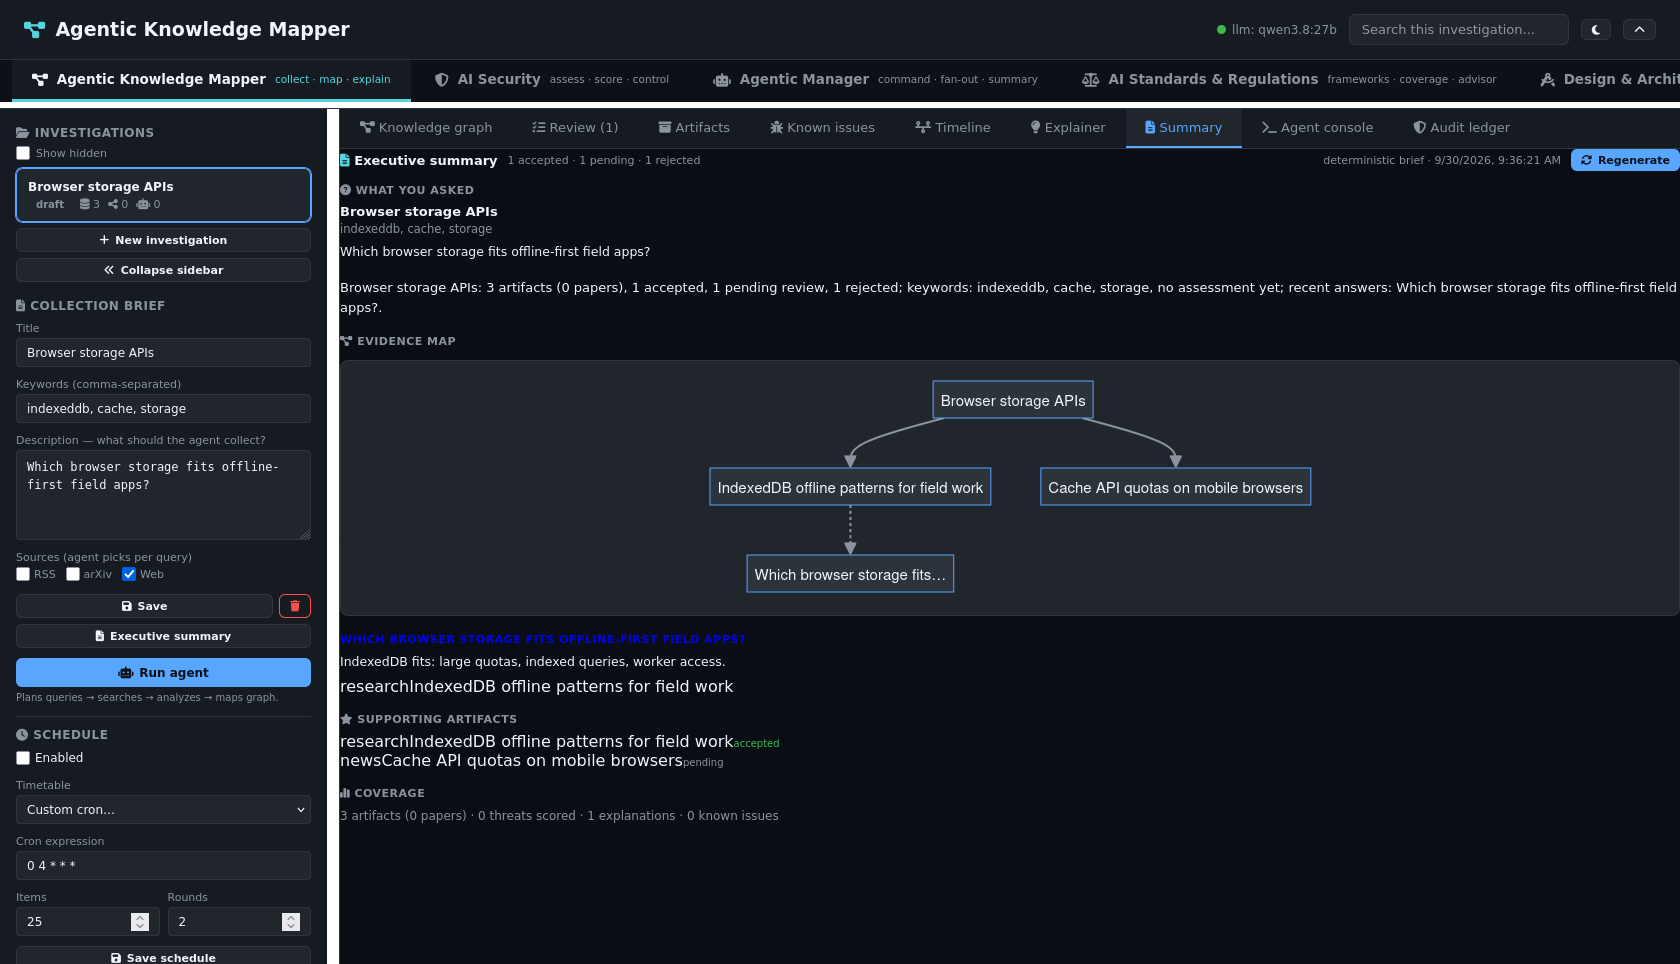
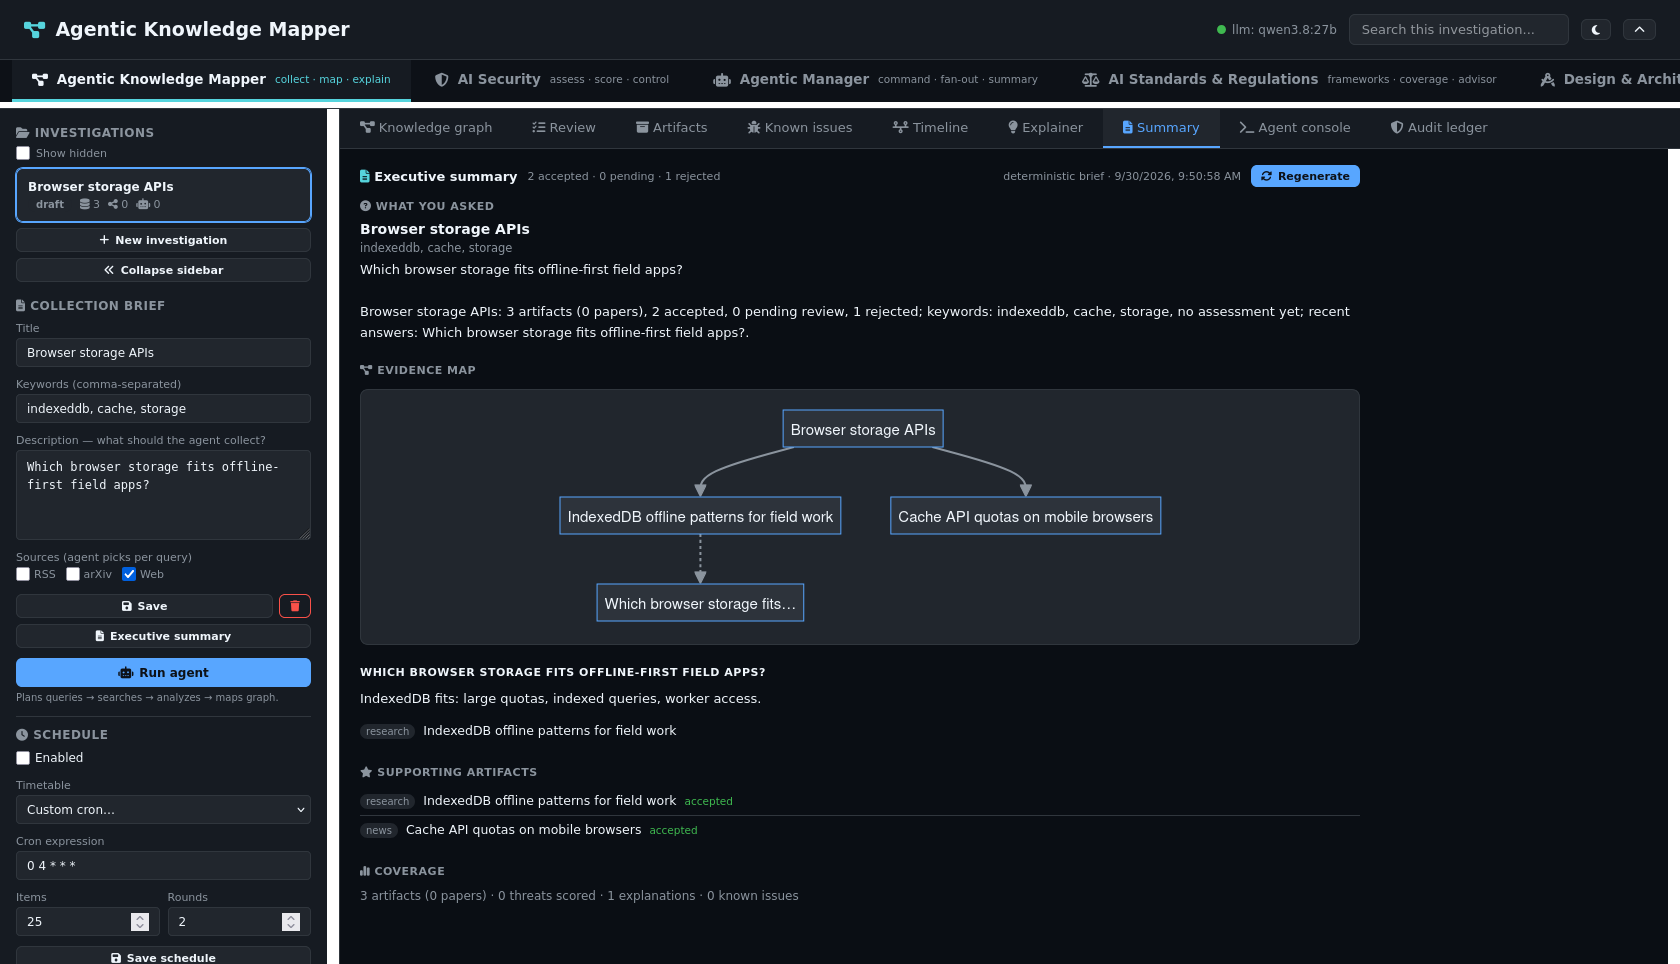
Fix Summary sub-tab formatting with its own styles

diff --git a/static/index.html b/static/index.html
@@ -216,6 +216,27 @@ body { font-family: -apple-system, BlinkMacSystemFont, 'Segoe UI', Roboto, sans-
 .main-content { flex: 1; min-height: 0; position: relative; }
 .view { display: none; height: 100%; }
 .view.visible { display: block; }
+/* executive summary sub-tab: a readable document column, not edge-to-edge.
+   (An earlier version borrowed .overlay-section/.rel-item here, but those are
+   scoped to .overlay-body and rendered unstyled -- hence the flat, broken
+   look. These classes are the tab's own.) */
+#summaryView.visible { overflow-y: auto; padding: 16px 20px 80px; }
+#summaryView .sum-head, #sumBody { max-width: 1000px; }
+.sum-section { margin-bottom: 20px; }
+.sum-section:last-child { margin-bottom: 0; }
+.sum-section h4 { font-size: 11px; text-transform: uppercase; letter-spacing: 0.5px; color: var(--text2); margin-bottom: 8px; font-weight: 600; }
+.sum-section h4 a { color: var(--text); }
+.sum-section h4 a:hover { color: var(--accent); }
+.sum-section p { font-size: 13px; line-height: 1.65; color: var(--text); margin: 4px 0 8px; }
+.sum-query-title { font-size: 14px; font-weight: 600; }
+.sum-query-sub { font-size: 11.5px; color: var(--text2); margin-top: 3px; }
+.sum-item { display: flex; gap: 8px; align-items: baseline; font-size: 12.5px; padding: 6px 0; border-bottom: 1px solid var(--border); }
+.sum-item:last-child { border-bottom: none; }
+.sum-item.clickable { cursor: pointer; }
+.sum-item.clickable:hover .sum-title { color: var(--accent); }
+.sum-type { font-size: 10px; padding: 1px 6px; border-radius: 8px; background: var(--bg3); color: var(--text2); white-space: nowrap; }
+.sum-review-accepted { font-size: 10.5px; color: var(--green); white-space: nowrap; }
+.sum-review-pending { font-size: 10.5px; color: var(--text2); white-space: nowrap; }
 #graphView { position: relative; }
 #graph { height: 100%; }
 .graph-controls { position: absolute; top: 12px; right: 12px; z-index: 10; display: flex; flex-direction: column; gap: 4px; }
@@ -945,7 +966,7 @@ body.pane-sec-top-collapsed .sec-topbar-sub { display: none; }
         <div id="explHistory"></div>
       </div>
       <div class="view" id="summaryView">
-        <div style="display:flex;align-items:center;gap:10px;margin-bottom:12px;flex-wrap:wrap;">
+        <div class="sum-head" style="display:flex;align-items:center;gap:10px;margin-bottom:12px;flex-wrap:wrap;">
           <h3 style="font-size:13px;margin:0;"><i class="fas fa-file-lines" style="color:var(--teal);"></i> Executive summary</h3>
           <span id="sumFlags" style="font-size:11px;color:var(--text2);"></span>
           <span style="flex:1"></span>
@@ -1688,39 +1709,39 @@ function renderSummaryTab(d) {
   let html = '';
   const q = d.query || {};
   if (q.title || q.keywords || q.description) {
-    html += `<div class="overlay-section"><h4><i class="fas fa-circle-question"></i> What you asked</h4>` +
-      (q.title ? `<div style="font-size:13px;font-weight:600;">${escHtml(q.title)}</div>` : '') +
-      (q.keywords ? `<div style="font-size:11.5px;color:var(--text2);margin-top:2px;">${escHtml(q.keywords)}</div>` : '') +
-      (q.description ? `<p style="font-size:12.5px;margin:6px 0 0;">${escHtml(q.description)}</p>` : '') + '</div>';
+    html += `<div class="sum-section"><h4><i class="fas fa-circle-question"></i> What you asked</h4>` +
+      (q.title ? `<div class="sum-query-title">${escHtml(q.title)}</div>` : '') +
+      (q.keywords ? `<div class="sum-query-sub">${escHtml(q.keywords)}</div>` : '') +
+      (q.description ? `<p>${escHtml(q.description)}</p>` : '') + '</div>';
   }
-  html += `<div class="overlay-section"><p style="font-size:13px;line-height:1.6;">${escHtml(d.executive_summary || '')}</p></div>`;
+  html += `<div class="sum-section"><p>${escHtml(d.executive_summary || '')}</p></div>`;
   if (d.diagram) {
-    html += `<div class="overlay-section"><h4><i class="fas fa-diagram-project"></i> Evidence map</h4>` +
+    html += `<div class="sum-section"><h4><i class="fas fa-diagram-project"></i> Evidence map</h4>` +
       `<div class="diagram-wrap"><pre class="mermaid">${escHtml(d.diagram)}</pre></div></div>`;
   }
   (d.answers || []).forEach(a => {
-    html += `<div class="overlay-section"><h4><a class="no-und" href="javascript:void(0)" onclick="openExplanation(${a.id})">${escHtml(a.question || '')}</a></h4>`;
-    if (a.excerpt) html += `<p style="font-size:12.5px;margin:4px 0 6px;">${escHtml(a.excerpt)}</p>`;
+    html += `<div class="sum-section"><h4><a class="no-und" href="javascript:void(0)" onclick="openExplanation(${a.id})">${escHtml(a.question || '')}</a></h4>`;
+    if (a.excerpt) html += `<p>${escHtml(a.excerpt)}</p>`;
     (a.supporting || []).forEach(s => {
-      html += `<div class="rel-item" style="cursor:pointer;" onclick="openDetailOverlay(${s.id})">` +
-        `<span class="rel-type">${escHtml(s.artifact_type || 'item')}</span><span>${escHtml(s.title || '')}</span></div>`;
+      html += `<div class="sum-item clickable" onclick="openDetailOverlay(${s.id})">` +
+        `<span class="sum-type">${escHtml(s.artifact_type || 'item')}</span><span class="sum-title">${escHtml(s.title || '')}</span></div>`;
     });
     html += '</div>';
   });
   const arts = d.top_artifacts || [];
   if (arts.length) {
-    html += `<div class="overlay-section"><h4><i class="fas fa-star"></i> Supporting artifacts</h4>` +
-      arts.map(a => `<div class="rel-item" style="cursor:pointer;" onclick="openDetailOverlay(${a.id})">` +
-        `<span class="rel-type">${escHtml(a.artifact_type || 'item')}</span><span>${escHtml(a.title || '')}</span>` +
-        `<span style="font-size:10px;color:${(a.review || '') === 'accepted' ? 'var(--green)' : 'var(--text2)'};">${escHtml(a.review || '')}</span></div>`).join('') + '</div>';
+    html += `<div class="sum-section"><h4><i class="fas fa-star"></i> Supporting artifacts</h4>` +
+      arts.map(a => `<div class="sum-item clickable" onclick="openDetailOverlay(${a.id})">` +
+        `<span class="sum-type">${escHtml(a.artifact_type || 'item')}</span><span class="sum-title">${escHtml(a.title || '')}</span>` +
+        `<span class="${(a.review || '') === 'accepted' ? 'sum-review-accepted' : 'sum-review-pending'}">${escHtml(a.review || '')}</span></div>`).join('') + '</div>';
   }
-  html += `<div class="overlay-section"><h4><i class="fas fa-chart-simple"></i> Coverage</h4>` +
+  html += `<div class="sum-section"><h4><i class="fas fa-chart-simple"></i> Coverage</h4>` +
     `<p style="font-size:12px;color:var(--text2);">${c.artifacts || 0} artifacts (${c.papers || 0} papers) · ${c.threats || 0} threats scored · ${c.explanations || 0} explanations · ${c.cves || 0} known issues</p></div>`;
   const threats = ((d.top_findings || {}).threats) || [];
   if (threats.length) {
-    html += `<div class="overlay-section"><h4><i class="fas fa-triangle-exclamation"></i> Top threats</h4>` +
-      threats.map(t => `<div style="font-size:12px;padding:3px 0;"><strong>${escHtml(t.id || '')}</strong> ${escHtml(t.title || '')} ` +
-        `<span style="color:var(--text2);">· ${escHtml(t.severity || '')}</span></div>`).join('') + '</div>';
+    html += `<div class="sum-section"><h4><i class="fas fa-triangle-exclamation"></i> Top threats</h4>` +
+      threats.map(t => `<div class="sum-item"><strong>${escHtml(t.id || '')}</strong><span class="sum-title">${escHtml(t.title || '')}</span> ` +
+        `<span style="color:var(--text2);font-size:11px;">· ${escHtml(t.severity || '')}</span></div>`).join('') + '</div>';
   }
   box.innerHTML = html;
   secEnsureMermaid(box);
